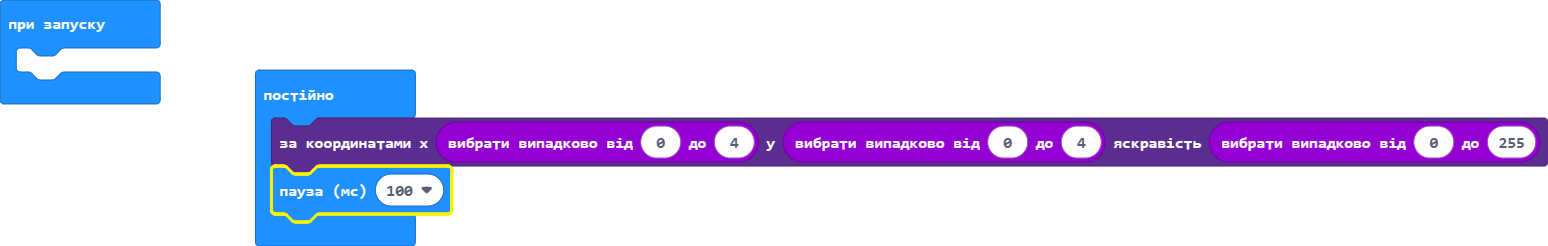
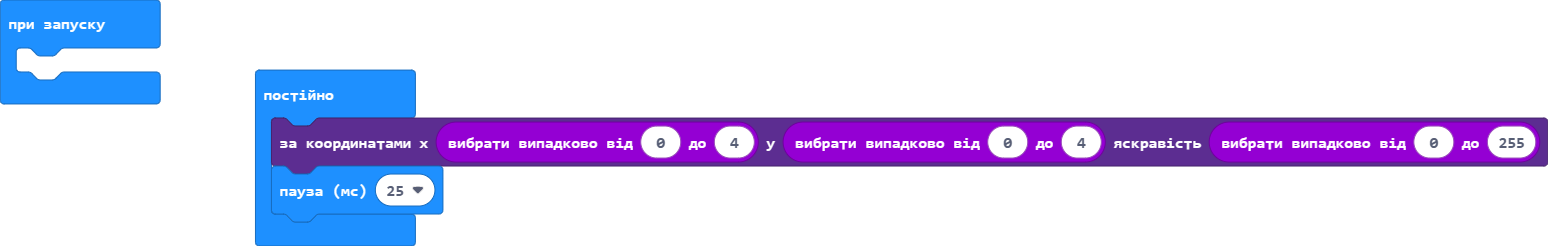
Оновити main.blocks, main.ts

Changed region(s): [[0.155, 0.6545, 0.3101, 0.9106]]

diff --git a/main.ts b/main.ts
@@ -1,4 +1,4 @@
 basic.forever(function () {
     led.plotBrightness(randint(0, 4), randint(0, 4), randint(0, 255))
-    basic.pause(100)
+    basic.pause(25)
 })
